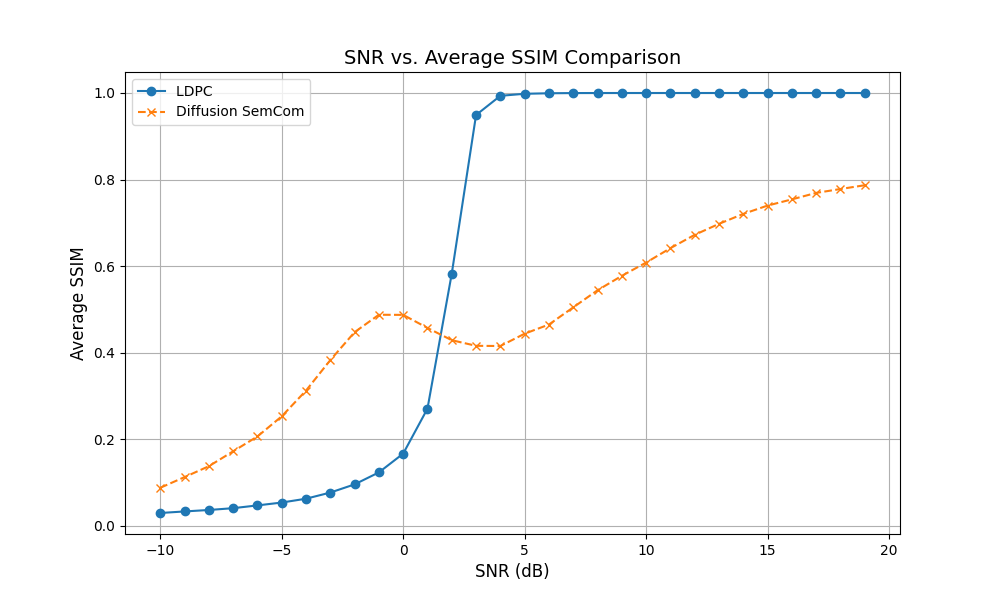
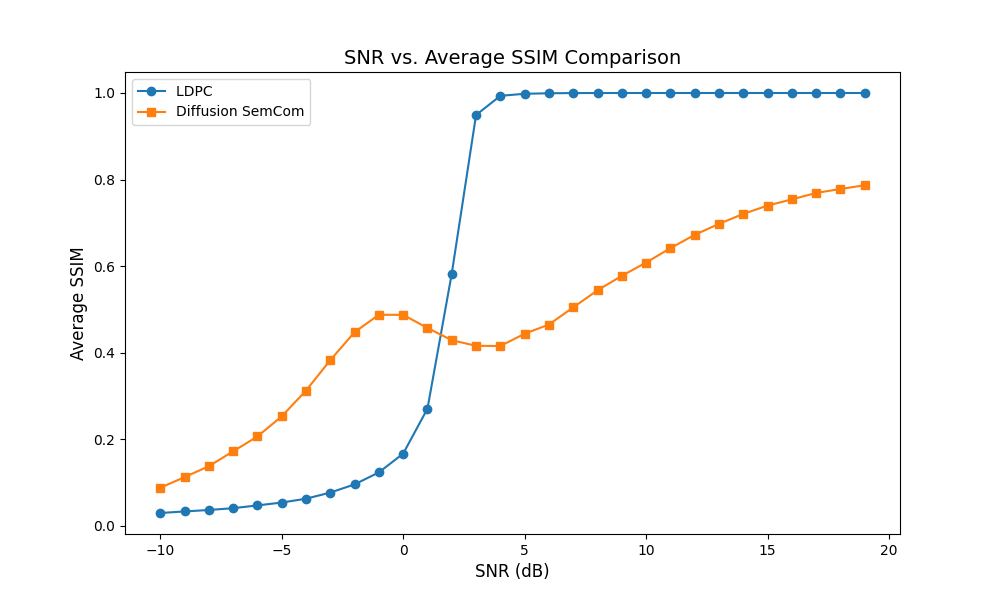
graph

diff --git a/eval2.py b/eval2.py
@@ -118,13 +118,13 @@ def main():
     if snr_ldpc:
         plt.plot(snr_ldpc, ssim_ldpc, marker='o', linestyle='-', label='LDPC ')
     if snr_new:
-        plt.plot(snr_new, ssim_new, marker='x', linestyle='--', label='Diffusion SemCom')
+        plt.plot(snr_new, ssim_new, marker='s', linestyle='-', label='Diffusion SemCom')
 
     plt.xlabel("SNR (dB)", fontsize=12)
     plt.ylabel("Average SSIM", fontsize=12)
     plt.title("SNR vs. Average SSIM Comparison", fontsize=14)
     plt.legend() # 凡例を表示
-    plt.grid(True) # グリッド線を表示
+    plt.grid(False) # グリッド線を表示
     
     output_filename = "snr_vs_ssim_comparison.png"
     plt.savefig(output_filename)
